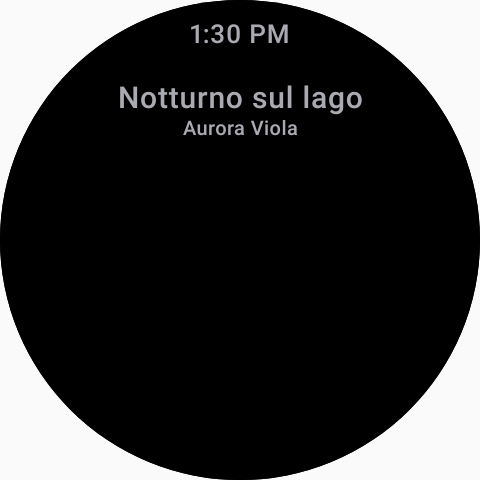
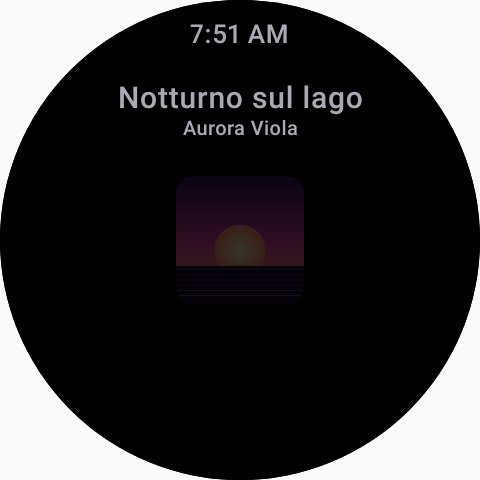
Fix ambient cover visibility and contrast music light over Canvas

Changed region(s): [[0.3438, 0.4062, 0.6562, 0.5625], [0.375, 0.0312, 0.625, 0.0938]]

diff --git a/wear/src/test/java/dev/pampa/fluidify/wear/screenshots/PlayerScreenshots.kt b/wear/src/test/java/dev/pampa/fluidify/wear/screenshots/PlayerScreenshots.kt
@@ -93,17 +93,36 @@ class PlayerScreenshots {
     @Test
     fun ambient() = capture("player_ambient", ambient = true, content = player(sampleSnapshot()))
 
+    @Test @Config(qualifiers = WatchSmall)
+    fun ambientSmallestWatch() = capture("player_ambient_192dp", ambient = true, content = player(sampleSnapshot()))
+
+    @Test @Config(qualifiers = Watch40)
+    fun ambientMediumWatch() = capture("player_ambient_216dp", ambient = true, content = player(sampleSnapshot()))
+
+    @Test fun ambientLowBitHasNoImage() {
+        capture("player_ambient_low_bit") {
+            CompositionLocalProvider(dev.antigravity.fluidengine.wear.ambient.LocalFluidWearAmbient provides
+                dev.antigravity.fluidengine.wear.ambient.FluidAmbientState.preview(true, lowBitAmbient = true)) {
+                PlayerScreen(FakeControls(sampleSnapshot()), art, onQueue = {}, onOutput = {}, onEssentials = {})
+            }
+        }
+        val bitmap = android.graphics.BitmapFactory.decodeFile("screenshots/player_ambient_low_bit.png")
+        org.junit.Assert.assertEquals(android.graphics.Color.BLACK, bitmap.getPixel(bitmap.width / 2, bitmap.height / 2))
+    }
+
     @Test fun enteringAmbientKeepsTheTitleAnchorAndDisposesTheInteractivePlayer() {
         val snapshot = sampleSnapshot()
         val controls = FakeControls(snapshot)
         val now = controls.nowPlaying.value
-        val ambient = androidx.compose.runtime.mutableStateOf(dev.antigravity.fluidengine.wear.ambient.FluidAmbientState.preview(false))
+        val ambient = dev.antigravity.fluidengine.wear.ambient.FluidAmbientState.preview(false)
+        // Mutate the same observed state, as AmbientLifecycleObserver does on the device.
+        val setAmbient = ambient.javaClass.methods.single { it.name.startsWith("setAmbient") }
         var disposed = 0
         compose.mainClock.autoAdvance = false
         compose.setContent {
             WatchFrame {
-                CompositionLocalProvider(dev.antigravity.fluidengine.wear.ambient.LocalFluidWearAmbient provides ambient.value) {
-                    dev.pampa.fluidify.wear.ui.player.WatchAmbientSurface(now) {
+                CompositionLocalProvider(dev.antigravity.fluidengine.wear.ambient.LocalFluidWearAmbient provides ambient) {
+                    dev.pampa.fluidify.wear.ui.player.WatchAmbientSurface(now, art = art) {
                         androidx.compose.runtime.DisposableEffect(Unit) { onDispose { disposed++ } }
                         PlayerScreen(controls, art, onQueue = {}, onOutput = {}, onEssentials = {})
                     }
@@ -113,13 +132,32 @@ class PlayerScreenshots {
         compose.mainClock.advanceTimeBy(1_200)
         val title = snapshot.track!!.title
         val before = compose.onNodeWithText(title, useUnmergedTree = true).fetchSemanticsNode().boundsInRoot
-        compose.runOnIdle { ambient.value = dev.antigravity.fluidengine.wear.ambient.FluidAmbientState.preview(true) }
+        compose.runOnIdle { setAmbient.invoke(ambient, true) }
+        // Wear can suspend animation frames as soon as it enters ambient. No transition may
+        // keep the interactive player (and its polling jobs) alive waiting for later frames.
+        compose.mainClock.advanceTimeByFrame()
+        compose.mainClock.advanceTimeByFrame() // Commit the snapshot and then its recomposition.
+        compose.waitForIdle()
+        org.junit.Assert.assertEquals("Dispose without waiting for animation frames", 1, disposed)
         compose.mainClock.advanceTimeBy(300)
         compose.waitForIdle()
         val after = compose.onNodeWithText(title, useUnmergedTree = true).fetchSemanticsNode().boundsInRoot
         org.junit.Assert.assertEquals(before.top, after.top, 2f)
         org.junit.Assert.assertEquals(1, disposed)
         compose.onRoot().captureRoboImage("screenshots/player_aod_same_anchor.png")
+        val bitmap = android.graphics.BitmapFactory.decodeFile("screenshots/player_aod_same_anchor.png")
+        val center = bitmap.getPixel(bitmap.width / 2, bitmap.height / 2)
+        val brightness = maxOf(android.graphics.Color.red(center), android.graphics.Color.green(center), android.graphics.Color.blue(center))
+        org.junit.Assert.assertTrue("Cached cover remains visible and dim in AOD", brightness in 1..80)
+        compose.runOnIdle { setAmbient.invoke(ambient, false) }
+        compose.mainClock.advanceTimeByFrame()
+        compose.mainClock.advanceTimeByFrame()
+        compose.waitForIdle()
+        compose.mainClock.advanceTimeBy(300)
+        compose.waitForIdle()
+        compose.onRoot().captureRoboImage("screenshots/player_aod_return.png")
+        val context = ApplicationProvider.getApplicationContext<android.content.Context>()
+        compose.onNodeWithContentDescription(context.getString(dev.pampa.fluidify.wear.R.string.next), useUnmergedTree = true).assertExists()
     }
 
     @Test

diff --git a/app/src/main/java/dev/lelonio/square/ui/player/AudioLight.kt b/app/src/main/java/dev/lelonio/square/ui/player/AudioLight.kt
@@ -6,6 +6,7 @@ import androidx.compose.runtime.*
 import androidx.compose.ui.Modifier
 import androidx.compose.ui.geometry.Rect
 import androidx.compose.ui.graphics.Color
+import androidx.compose.ui.graphics.lerp
 import androidx.compose.ui.graphics.drawscope.drawIntoCanvas
 import androidx.compose.ui.graphics.nativeCanvas
 import androidx.compose.ui.graphics.toArgb
@@ -26,7 +27,7 @@ internal fun rememberAudioLight(playing: Boolean, visible: Boolean = true, mini:
     val context = LocalContext.current
     val app = context.applicationContext as? SquareApplication
     val preference = app?.audioLightPreferences?.enabled?.collectAsStateWithLifecycle()
-    val lifecycle by LocalLifecycleOwner.current.lifecycle.currentStateFlow.collectAsStateWithLifecycle()
+    val lifecycle by LocalLifecycleOwner.current.lifecycle.currentStateFlow.collectAsState()
     val policy = remember(context) { AudioLightPolicy(context) }
     DisposableEffect(policy) { onDispose { policy.close() } }
     val allowed by policy.allowed.collectAsStateWithLifecycle()
@@ -56,7 +57,8 @@ internal fun rememberAudioLight(playing: Boolean, visible: Boolean = true, mini:
 
 @Composable
 internal fun AudioLightHalo(frame: State<AudioLightFrame?>, color: Color, cover: () -> Rect? = { null },
-    modifier: Modifier = Modifier, mini: Boolean = false, compact: Boolean = false, bottomMix: () -> Float = { 0f }) {
+    modifier: Modifier = Modifier, mini: Boolean = false, compact: Boolean = false, bottomMix: () -> Float = { 0f },
+    contrastColor: Color = color, contrastMix: () -> Float = { 0f }) {
     val painter = remember { AudioHaloPainter() }
     val bounds = remember { android.graphics.RectF() }
     val clip = remember { android.graphics.Path() }
@@ -72,9 +74,25 @@ internal fun AudioLightHalo(frame: State<AudioLightFrame?>, color: Color, cover:
                     clip.reset(); clip.addRoundRect(0f,0f,size.width,size.height,size.height/2,size.height/2,android.graphics.Path.Direction.CW)
                     native.clipPath(clip)
                 }
-                painter.draw(native, size.width, size.height, current, color.toArgb(),
+                painter.draw(native, size.width, size.height, current, lerp(color, contrastColor, contrastMix().coerceIn(0f, 1f)).toArgb(),
                     bounds.takeIf { rect != null }, mini, compact, bottomMix = bottomMix())
                 native.restoreToCount(saved)
         }
     }
+}
+
+/** A different cover swatch for light over Canvas; monochrome palettes get a related accent. */
+internal fun contrastingAudioLightColor(base: Color, palette: List<Color>, fallback: Color): Color {
+    fun hsv(color: Color) = FloatArray(3).also { android.graphics.Color.colorToHSV(color.toArgb(), it) }
+    val primary = hsv(base)
+    fun separation(hue: Float): Float {
+        val distance = kotlin.math.abs(hue - primary[0])
+        return minOf(distance, 360f - distance)
+    }
+    if (primary[1] < .1f) return fallback
+    val candidate = palette.map { it to hsv(it) }.filter { it.second[1] >= .2f }
+        .maxByOrNull { separation(it.second[0]) }
+    if (candidate != null && separation(candidate.second[0]) >= 45f) return candidate.first
+    // No frame readback or colour polling: one stable hue per cover, not a colour chasing the video.
+    return Color(android.graphics.Color.HSVToColor(floatArrayOf((primary[0] + 100f) % 360f, .60f, .95f)))
 }

diff --git a/wear/src/main/java/dev/pampa/fluidify/wear/ui/player/AudioReactiveRing.kt b/wear/src/main/java/dev/pampa/fluidify/wear/ui/player/AudioReactiveRing.kt
@@ -31,7 +31,7 @@ internal val LocalWatchAudioLightPreview = staticCompositionLocalOf<AudioLightFr
 @Composable
 fun WatchLightActivity(app: WearApp, visible: Boolean, playing: Boolean, track: String) {
     val preference by app.audioLightPreferences.enabled.collectAsStateWithLifecycle()
-    val lifecycle by LocalLifecycleOwner.current.lifecycle.currentStateFlow.collectAsStateWithLifecycle()
+    val lifecycle by LocalLifecycleOwner.current.lifecycle.currentStateFlow.collectAsState()
     val mode by app.playback.mode.collectAsStateWithLifecycle()
     val seek by app.playback.visualSeek.collectAsStateWithLifecycle()
     val phone by app.link.phone.collectAsStateWithLifecycle()
@@ -50,6 +50,7 @@ fun WatchLightActivity(app: WearApp, visible: Boolean, playing: Boolean, track: 
 @Composable
 fun AudioReactiveRing(positionMs: () -> Long, durationMs: Long, running: Boolean,
     modifier: Modifier = Modifier, clearTop: Dp = 0.dp, color: Color = MaterialTheme.colorScheme.primary) {
+    if (LocalFluidWearAmbient.current.isAmbient) return
     LocalWatchAudioLightPreview.current?.let { frame ->
         val painter = remember { AudioHaloPainter() }
         Canvas(modifier.fillMaxSize()) {
@@ -67,8 +68,9 @@ fun AudioReactiveRing(positionMs: () -> Long, durationMs: Long, running: Boolean
     DisposableEffect(policy) { onDispose { policy?.close() } }
     val allowed = policy?.allowed?.collectAsStateWithLifecycle()
     val mode = app?.playback?.mode?.collectAsStateWithLifecycle()
+    val lifecycle by LocalLifecycleOwner.current.lifecycle.currentStateFlow.collectAsState()
     val reduced = LocalFluidMotionPolicy.current.reducedMotion
-    val enabled = preference?.value == true && allowed?.value == true && !reduced
+    val enabled = preference?.value == true && allowed?.value == true && !reduced && lifecycle.isAtLeast(Lifecycle.State.STARTED)
     // This state is read only by drawing and graphicsLayer, never the player composition.
     val tick = remember { mutableLongStateOf(0) }
     val painter = remember { AudioHaloPainter() }
@@ -88,7 +90,7 @@ fun AudioReactiveRing(positionMs: () -> Long, durationMs: Long, running: Boolean
         } while (running || blend > 0f)
     }
     val reacting by remember { derivedStateOf { blend > .02f } }
-    FluidEdgeGlowRing(positionMs, durationMs, running && !reacting, modifier = modifier.graphicsLayer { alpha = 1 - blend }, clearTop = clearTop, color = color)
+    FluidEdgeGlowRing(positionMs, durationMs, running && !reacting && lifecycle.isAtLeast(Lifecycle.State.STARTED), modifier = modifier.graphicsLayer { alpha = 1 - blend }, clearTop = clearTop, color = color)
     Canvas(modifier.fillMaxSize().graphicsLayer { alpha = blend }) {
         if (blend == 0f) return@Canvas
         tick.longValue

diff --git a/wear/src/main/java/dev/pampa/fluidify/wear/ui/player/AmbientNowPlaying.kt b/wear/src/main/java/dev/pampa/fluidify/wear/ui/player/AmbientNowPlaying.kt
@@ -2,12 +2,19 @@ package dev.pampa.fluidify.wear.ui.player
 
 import android.text.format.DateFormat
 import androidx.compose.foundation.background
+import androidx.compose.foundation.shape.RoundedCornerShape
 import androidx.compose.foundation.layout.*
 import androidx.compose.runtime.Composable
 import androidx.compose.runtime.remember
 import androidx.compose.ui.Alignment
 import androidx.compose.ui.Modifier
 import androidx.compose.ui.graphics.Color
+import androidx.compose.ui.draw.alpha
+import androidx.compose.ui.draw.clip
+import coil.compose.AsyncImage
+import coil.request.ImageRequest
+import dev.pampa.fluidify.wear.link.ArtStore
+import androidx.compose.ui.layout.ContentScale
 import androidx.compose.ui.platform.LocalContext
 import androidx.compose.ui.res.stringResource
 import androidx.compose.ui.text.style.TextAlign
@@ -19,10 +26,11 @@ import dev.antigravity.fluidengine.wear.ambient.LocalFluidWearAmbient
 import dev.antigravity.fluidengine.wear.ambient.fluidBurnInShift
 import dev.pampa.fluidify.wear.R
 import dev.pampa.fluidify.wear.playback.NowPlaying
+import dev.pampa.fluidify.wear.WearApp
 import java.util.Date
 
 /** One sparse, opaque ambient surface for every route, including low-bit displays. */
-@Composable fun AmbientNowPlaying(now: NowPlaying, modifier: Modifier = Modifier) {
+@Composable fun AmbientNowPlaying(now: NowPlaying, modifier: Modifier = Modifier, art: ArtStore? = null) {
     val ambient = LocalFluidWearAmbient.current
     val tick = ambient.updateTick
     val context = LocalContext.current
@@ -51,6 +59,19 @@ import java.util.Date
                     Text(it, style = MaterialTheme.typography.bodyExtraSmall, color = textColor,
                         maxLines = 1, overflow = TextOverflow.Ellipsis, textAlign = TextAlign.Center)
                 }
+            }
+        }
+        // Static, small and dim: the cover remains recognisable without lighting the whole panel.
+        // No image on a low-bit panel; the title and time remain sufficient in that mode.
+        if (!ambient.lowBitAmbient) {
+            val store = art ?: (context.applicationContext as? WearApp)?.art
+            val artKey = now.snapshot?.track?.artKey
+            val cover = remember(artKey, store, tick) { store?.fileFor(artKey) }
+            cover?.let {
+                AsyncImage(ImageRequest.Builder(context).data(it).crossfade(false).build(),
+                    contentDescription = null, contentScale = ContentScale.Crop,
+                    modifier = Modifier.align(Alignment.Center).size(if (compact) 52.dp else 64.dp)
+                        .fluidBurnInShift(ambient).clip(RoundedCornerShape(8.dp)).alpha(.22f))
             }
         }
     }

diff --git a/wear/src/main/java/dev/pampa/fluidify/wear/ui/player/WatchAmbientSurface.kt b/wear/src/main/java/dev/pampa/fluidify/wear/ui/player/WatchAmbientSurface.kt
@@ -1,22 +1,26 @@
 package dev.pampa.fluidify.wear.ui.player
 
-import androidx.compose.animation.Crossfade
+import androidx.compose.animation.core.Animatable
 import androidx.compose.animation.core.tween
-import androidx.compose.runtime.Composable
-import androidx.compose.runtime.CompositionLocalProvider
-import androidx.compose.runtime.remember
+import androidx.compose.foundation.layout.Box
+import androidx.compose.runtime.*
 import androidx.compose.ui.Modifier
-import dev.antigravity.fluidengine.wear.ambient.FluidAmbientState
+import androidx.compose.ui.graphics.graphicsLayer
 import dev.antigravity.fluidengine.wear.ambient.LocalFluidWearAmbient
 import dev.pampa.fluidify.wear.playback.NowPlaying
 
-/** One short transition, then the interactive composition (and its frame clocks) is disposed. */
+/** Ambient entry must finish in one frame. A fade is safe only on the interactive return. */
 @Composable
-internal fun WatchAmbientSurface(now: NowPlaying, modifier: Modifier = Modifier, content: @Composable () -> Unit) {
+internal fun WatchAmbientSurface(now: NowPlaying, modifier: Modifier = Modifier,
+    art: dev.pampa.fluidify.wear.link.ArtStore? = null, content: @Composable () -> Unit) {
     val ambient = LocalFluidWearAmbient.current
-    val interactive = remember { FluidAmbientState.interactive() }
-    Crossfade(ambient.isAmbient, modifier, animationSpec = tween(220), label = "ambient") { dimmed ->
-        if (dimmed) AmbientNowPlaying(now)
-        else CompositionLocalProvider(LocalFluidWearAmbient provides interactive) { content() }
+    var hasBeenAmbient by remember { mutableStateOf(false) }
+    if (ambient.isAmbient) {
+        SideEffect { hasBeenAmbient = true }
+        AmbientNowPlaying(now, modifier, art)
+    } else {
+        val reveal = remember { Animatable(if (hasBeenAmbient) 0f else 1f) }
+        LaunchedEffect(reveal) { reveal.animateTo(1f, tween(220)) }
+        Box(modifier.graphicsLayer { alpha = reveal.value }) { content() }
     }
 }

diff --git a/app/src/test/java/dev/lelonio/square/playback/AudioLightColorTest.kt b/app/src/test/java/dev/lelonio/square/playback/AudioLightColorTest.kt
@@ -1,0 +1,36 @@
+package dev.lelonio.square.playback
+
+import android.app.Application
+import androidx.compose.ui.graphics.Color
+import androidx.compose.ui.graphics.toArgb
+import dev.lelonio.square.ui.player.contrastingAudioLightColor
+import org.junit.Assert.*
+import org.junit.Test
+import org.junit.runner.RunWith
+import org.robolectric.RobolectricTestRunner
+import org.robolectric.annotation.Config
+import org.robolectric.annotation.GraphicsMode
+
+@RunWith(RobolectricTestRunner::class)
+@GraphicsMode(GraphicsMode.Mode.NATIVE)
+@Config(sdk = [35], application = Application::class)
+class AudioLightColorTest {
+    @Test fun canvasUsesASeparateColourAlreadyInTheCover() {
+        val pink = Color(0xffdc7095)
+        val violet = Color(0xff723faa)
+        assertEquals(violet, contrastingAudioLightColor(pink, listOf(pink, Color(0xffdb8099), violet), Color.Blue))
+    }
+
+    @Test fun oneColourCoverGetsAStableDistinctAccent() {
+        val orange = Color(0xffc6732c)
+        val accent = contrastingAudioLightColor(orange, listOf(orange), Color.Blue)
+        fun hue(color: Color) = FloatArray(3).also { android.graphics.Color.colorToHSV(color.toArgb(), it) }[0]
+        val distance = kotlin.math.abs(hue(accent) - hue(orange))
+        assertTrue(minOf(distance, 360 - distance) > 80)
+        assertEquals(accent, contrastingAudioLightColor(orange, listOf(orange), Color.Blue))
+    }
+
+    @Test fun monochromeCoverUsesTheThemeAccent() {
+        assertEquals(Color.Blue, contrastingAudioLightColor(Color.White, listOf(Color.White, Color.Gray), Color.Blue))
+    }
+}

diff --git a/app/src/main/java/dev/lelonio/square/ui/player/PlayerScreen.kt b/app/src/main/java/dev/lelonio/square/ui/player/PlayerScreen.kt
@@ -481,6 +481,14 @@ fun PlayerScreen(
     val lightBottom = animateFloatAsState(
         targetValue = if (canvasReady || videoOn || panel != PlayerPanel.NONE) 1f else 0f,
         animationSpec = tween(420), label = "audioLightOrigin")
+    val lightColor = auraColors.firstOrNull() ?: MaterialTheme.colorScheme.primary
+    val lightFallback = MaterialTheme.colorScheme.primary
+    val canvasLightColor = remember(auraColors, lightColor, lightFallback) {
+        contrastingAudioLightColor(lightColor, auraColors, lightFallback)
+    }
+    val lightContrast = animateFloatAsState(
+        targetValue = if (canvasReady || videoOn) 1f else 0f,
+        animationSpec = tween(420), label = "audioLightContrast")
 
     Box(Modifier.fillMaxSize()) {
         Box(
@@ -595,11 +603,11 @@ fun PlayerScreen(
                 }
             }
 
-            AudioLightHalo(audioLight, color = auraColors.firstOrNull() ?: MaterialTheme.colorScheme.primary,
+            AudioLightHalo(audioLight, color = lightColor,
                 cover = {
                     if (lightCoverBounds == androidx.compose.ui.geometry.Rect.Zero) null
                     else lightCoverBounds.translate(-lightOrigin)
-                }, bottomMix = { lightBottom.value })
+                }, bottomMix = { lightBottom.value }, contrastColor = canvasLightColor, contrastMix = { lightContrast.value })
 
             // Only over a Canvas, and deliberately light. Clips are graded for
             // their own sake and some are near-white; this buys the controls

diff --git a/wear/src/main/java/dev/pampa/fluidify/wear/ui/WatchRoot.kt b/wear/src/main/java/dev/pampa/fluidify/wear/ui/WatchRoot.kt
@@ -139,7 +139,7 @@ fun WatchRoot(
         visible = (playerActive || immersiveActive) && (backStack?.destination?.route == null || backStack?.destination?.route == HOME),
         playing = shown.snapshot?.isPlaying == true && shown.snapshot?.buffering != true,
         track = shown.snapshot?.track?.uri.orEmpty())
-    dev.pampa.fluidify.wear.ui.player.WatchAmbientSurface(shown, modifier) {
+    dev.pampa.fluidify.wear.ui.player.WatchAmbientSurface(shown, modifier, app.art) {
     AppScaffold {
         Box(Modifier.fillMaxSize()) {
         SwipeDismissableNavHost(navController = nav, startDestination = HOME) {

diff --git a/wear/src/main/java/dev/pampa/fluidify/wear/ui/player/PlayerScreen.kt b/wear/src/main/java/dev/pampa/fluidify/wear/ui/player/PlayerScreen.kt
@@ -123,7 +123,7 @@ fun PlayerScreen(
     val volumeVisible by (volume?.visible ?: remember { MutableStateFlow(false) }).collectAsStateWithLifecycle()
     val volumeLevel by (volume?.level ?: remember { MutableStateFlow(0f) }).collectAsStateWithLifecycle()
     val ambient = LocalFluidWearAmbient.current
-    if (ambient.isAmbient) { AmbientNowPlaying(now, modifier); return }
+    if (ambient.isAmbient) { AmbientNowPlaying(now, modifier, art); return }
     val started = dev.pampa.fluidify.wear.ui.common.screenStarted()
     val snapshot = now.snapshot
     val track = snapshot?.track

diff --git a/wear/src/main/java/dev/pampa/fluidify/wear/ui/player/ImmersiveScreen.kt b/wear/src/main/java/dev/pampa/fluidify/wear/ui/player/ImmersiveScreen.kt
@@ -75,7 +75,7 @@ fun ImmersiveScreen(
 ) {
     val now by controls.nowPlaying.collectAsStateWithLifecycle()
     val ambient = LocalFluidWearAmbient.current
-    if (ambient.isAmbient) { AmbientNowPlaying(now, modifier); return }
+    if (ambient.isAmbient) { AmbientNowPlaying(now, modifier, art); return }
     val started = dev.pampa.fluidify.wear.ui.common.screenStarted()
     val playLabel = stringResource(if (now.snapshot?.isPlaying == true) R.string.pause else R.string.play)
     val nextLabel = stringResource(R.string.next)

diff --git a/docs/audio-light-validation.md b/docs/audio-light-validation.md
@@ -52,3 +52,13 @@ Ridotta la sola estensione verticale della luce telefono: 35% nel lettore comple
 Passati gli 11 render telefono/tablet, Canvas/video e mini player, compreso il controllo di visibilità attraverso il vetro. La resa in movimento e i consumi reali restano da verificare sul dispositivo; le prove automatiche non sostituiscono questa valutazione.
 
 Benchmark host aggiornato: circa 13,20 ms per disegno telefono e 4,31 ms mini player, rispetto a 19,36 / 5,91 ms della 1.6.1; il campo luminoso più basso riduce l'area da disegnare. Restano misure del Canvas software su PC, non prestazioni o batteria Android.
+
+## Copertina AOD e contrasto Canvas 1.6.3
+
+La segnalazione dell'utente riguarda la copertina che scompare in AOD. Ripristinata come immagine locale statica da 52/64 dp, al 22% di opacità su nero; nessun caricamento di rete, luce reattiva o animazione in ambient. Sui pannelli low-bit resta esclusa. Il titolo mantiene la stessa ancora verticale. L'ingresso ambient elimina immediatamente l'albero interattivo, senza aspettare i frame di una Crossfade; soltanto il ritorno interattivo sfuma per 220 ms. Il lifecycle viene osservato anche quando scende sotto STARTED, per fermare analisi e polling.
+
+Sul telefono, Canvas pronto e video usano il colore della palette più distante dal principale; se nessuno differisce almeno di 45 gradi, si ricava un accento stabile a 100 gradi dalla tonalità dominante. Per copertine acromatiche si usa l'accento del tema. Nessuna lettura dei frame video o analisi aggiuntiva. La transizione del colore dura 420 ms, nel disegno dello stesso alone. La luce attorno alla copertina e il mini player conservano i colori precedenti; altezza e intensità restano quelle della 1.6.2.
+
+Test nuovi: tre casi di palette; ingresso AOD con rilascio dell'albero interattivo nei primi frame, posizione del titolo invariata, pixel della copertina presenti e attenuati, ritorno ai controlli, assenza di immagine low-bit. Render AOD a 192/216/240 dp e low-bit, ingresso/ritorno, oltre agli 11 render telefono/tablet e mini player. Le prove automatiche non verificano il comportamento del firmware Samsung o i consumi fisici; questi controlli restano nella checklist.
+
+Cinque suite: 187 test senza errori (7 core, 61 protocollo, 72 Wear, 21 app, 26 engine-wear). Cinque test AOD separati passati nella variante Debug, compresa la transizione di andata/ritorno. Nei render AOD il 11,37% / 11,70% / 14,05% dei pixel interni al disco è diverso dal nero a 240 / 192 / 216 dp; low-bit 2,34%. Sono misure di immagini statiche, non della luminosità del pannello o della batteria.

diff --git a/docs/wear-qa-checklist.md b/docs/wear-qa-checklist.md
@@ -190,3 +190,10 @@ nessuna di queste prove viene dichiarata superata soltanto perché compila.
 - [ ] Watch lettore e copertina immersiva: alone soffuso senza fascia netta o estremità tagliate, anche con bassi forti; ora e controlli sempre leggibili.
 - [ ] Telefono lettore e mini player: luce chiaramente percepibile mentre cambia con la musica, con copertine scure/chiare, Canvas e diverse preferenze del vetro; nessuna pulsazione durante il silenzio.
 - [ ] Confrontare frame time e consumi con 1.6.0 ed effetti disattivati: i benchmark sul PC non sostituiscono queste misure.
+
+### Correzioni 1.6.3 — prove fisiche da completare
+
+- [ ] Galaxy Watch: ingresso AOD dal lettore e dalla copertina immersiva; piccola copertina attenuata presente, titolo fermo, luce musicale spenta. Risveglio: ritorno dei controlli e nessuna schermata ambient bloccata.
+- [ ] Ripetere ingresso/uscita AOD e background con riproduzione dal telefono e autonoma; verificare interruzione delle sottoscrizioni e del polling, poi ripresa soltanto con lettore visibile.
+- [ ] Telefono/tablet: Canvas con colori simili alla copertina, copertina monocromatica e chiara/scura; luce distinguibile, contenuta in basso, transizione senza salto di colore. Canvas in caricamento conserva la luce della copertina.
+- [ ] Controllare resa animata e consumi sul Galaxy Watch: i render JVM e i test lifecycle non dimostrano questi risultati.
